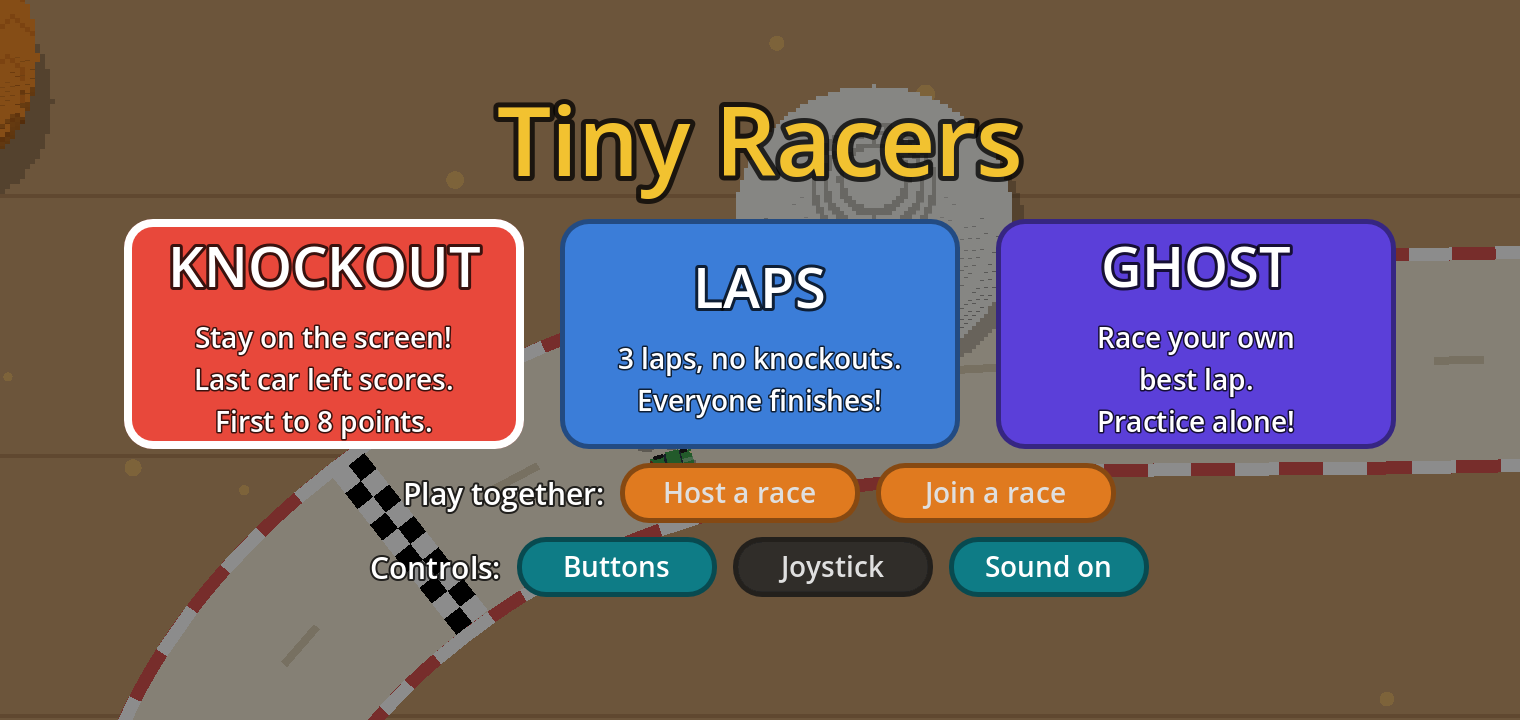
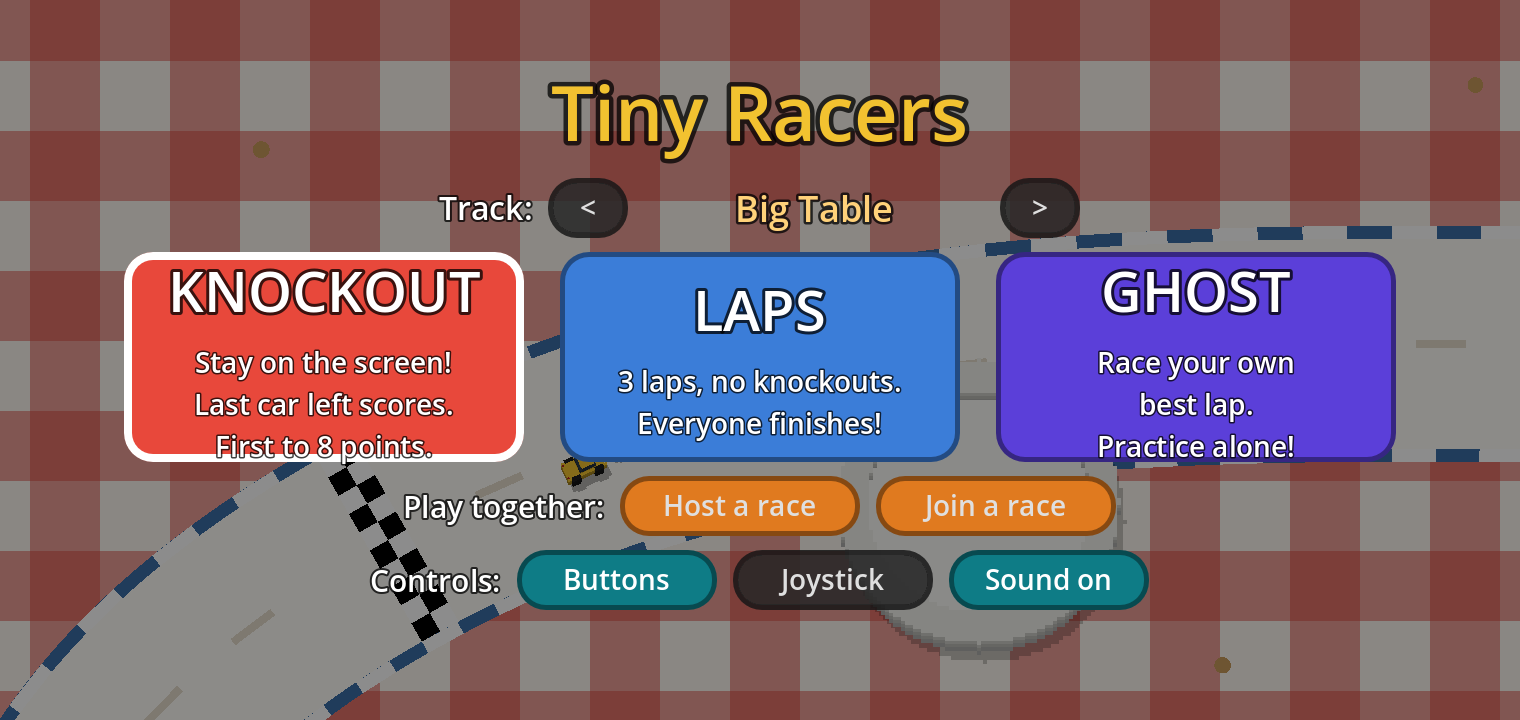
docs: v0.3.0 tracks and screenshots

diff --git a/README.md b/README.md
@@ -1,8 +1,8 @@
 # Tiny Racers
 
-A top-down tabletop racing game for Android: tiny cars racing across a
-kitchen table. Race the bots, chase your own ghost, or race each other on
-the same Wi-Fi with up to 4 phones.
+A top-down tabletop racing game for Android: tiny cars racing across
+tables, desks and floors around the house. 12 tracks. Race the bots, chase
+your own ghost, or race each other on the same Wi-Fi with up to 4 phones.
 
 **[Download the latest version](https://github.com/daplein/tiny-racers-releases/releases/latest)**
 (the `.apk` file under *Assets*).
@@ -11,8 +11,19 @@ the same Wi-Fi with up to 4 phones.
 
 | | |
 |---|---|
-| ![Start menu](screenshots/menu.png) | ![Spilled cereal](screenshots/cereal.png) |
+| ![Start menu with the track picker](screenshots/menu.png) | ![Big Table: the gingham tablecloth](screenshots/big-table.png) |
+| ![Round Table: under the chairs](screenshots/round-table.png) | ![Juggling Mat: cigar-box chicane](screenshots/juggling.png) |
+| ![Office Desk: over the keyboard](screenshots/office-desk.png) | ![Spilled cereal](screenshots/cereal.png) |
 | ![Race results](screenshots/results.png) | ![Hosting a race, with the QR code to join](screenshots/play-together.png) |
+
+## The 12 tracks
+
+![All 12 tracks](screenshots/all-tracks.png)
+
+Kitchen Table, Big Table, Kitchen Worktop, Office Desk, Living Room, Cinema
+Room, Stairs, Corridor, Shoe Rack, Round Table, Dresser and the Juggling
+Mat. Pick one on the start menu with the arrows (when playing together, the
+host picks).
 
 ## Install on Android
 
@@ -28,7 +39,8 @@ New versions install over the old one; your settings and best laps stay.
 - **Knockout:** the camera follows the leader. Fall off the screen and you're
   out; the last car left scores. First to 8 points wins.
 - **Laps:** 3 laps, no knockouts, everyone finishes.
-- **Ghost:** race alone against a see-through replay of your best lap.
+- **Ghost:** race alone against a see-through replay of your best lap
+  (one best lap per track).
 
 **Controls** (pick on the start menu):
 
